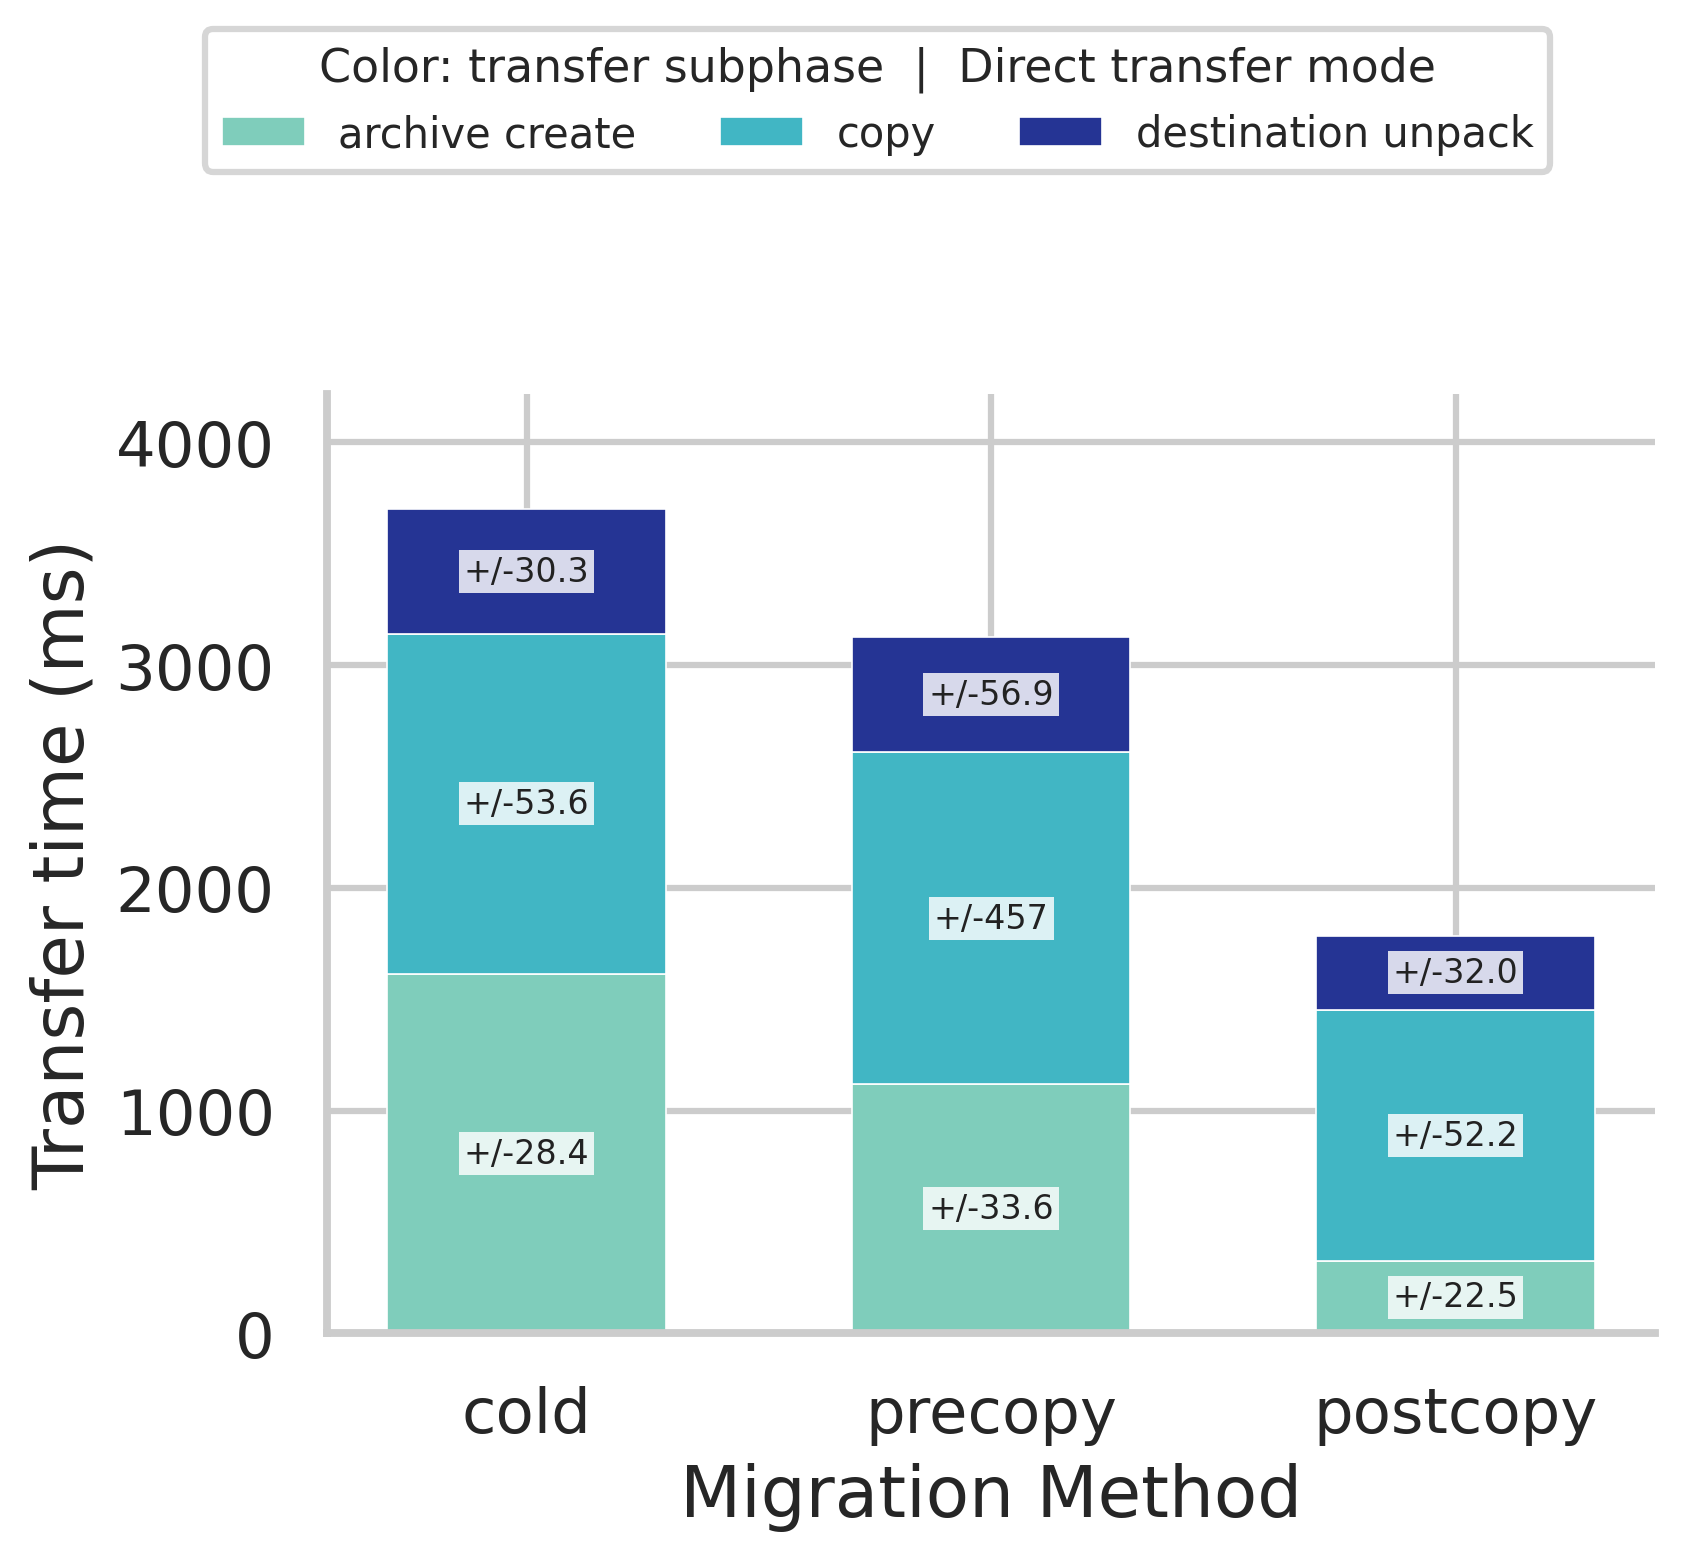
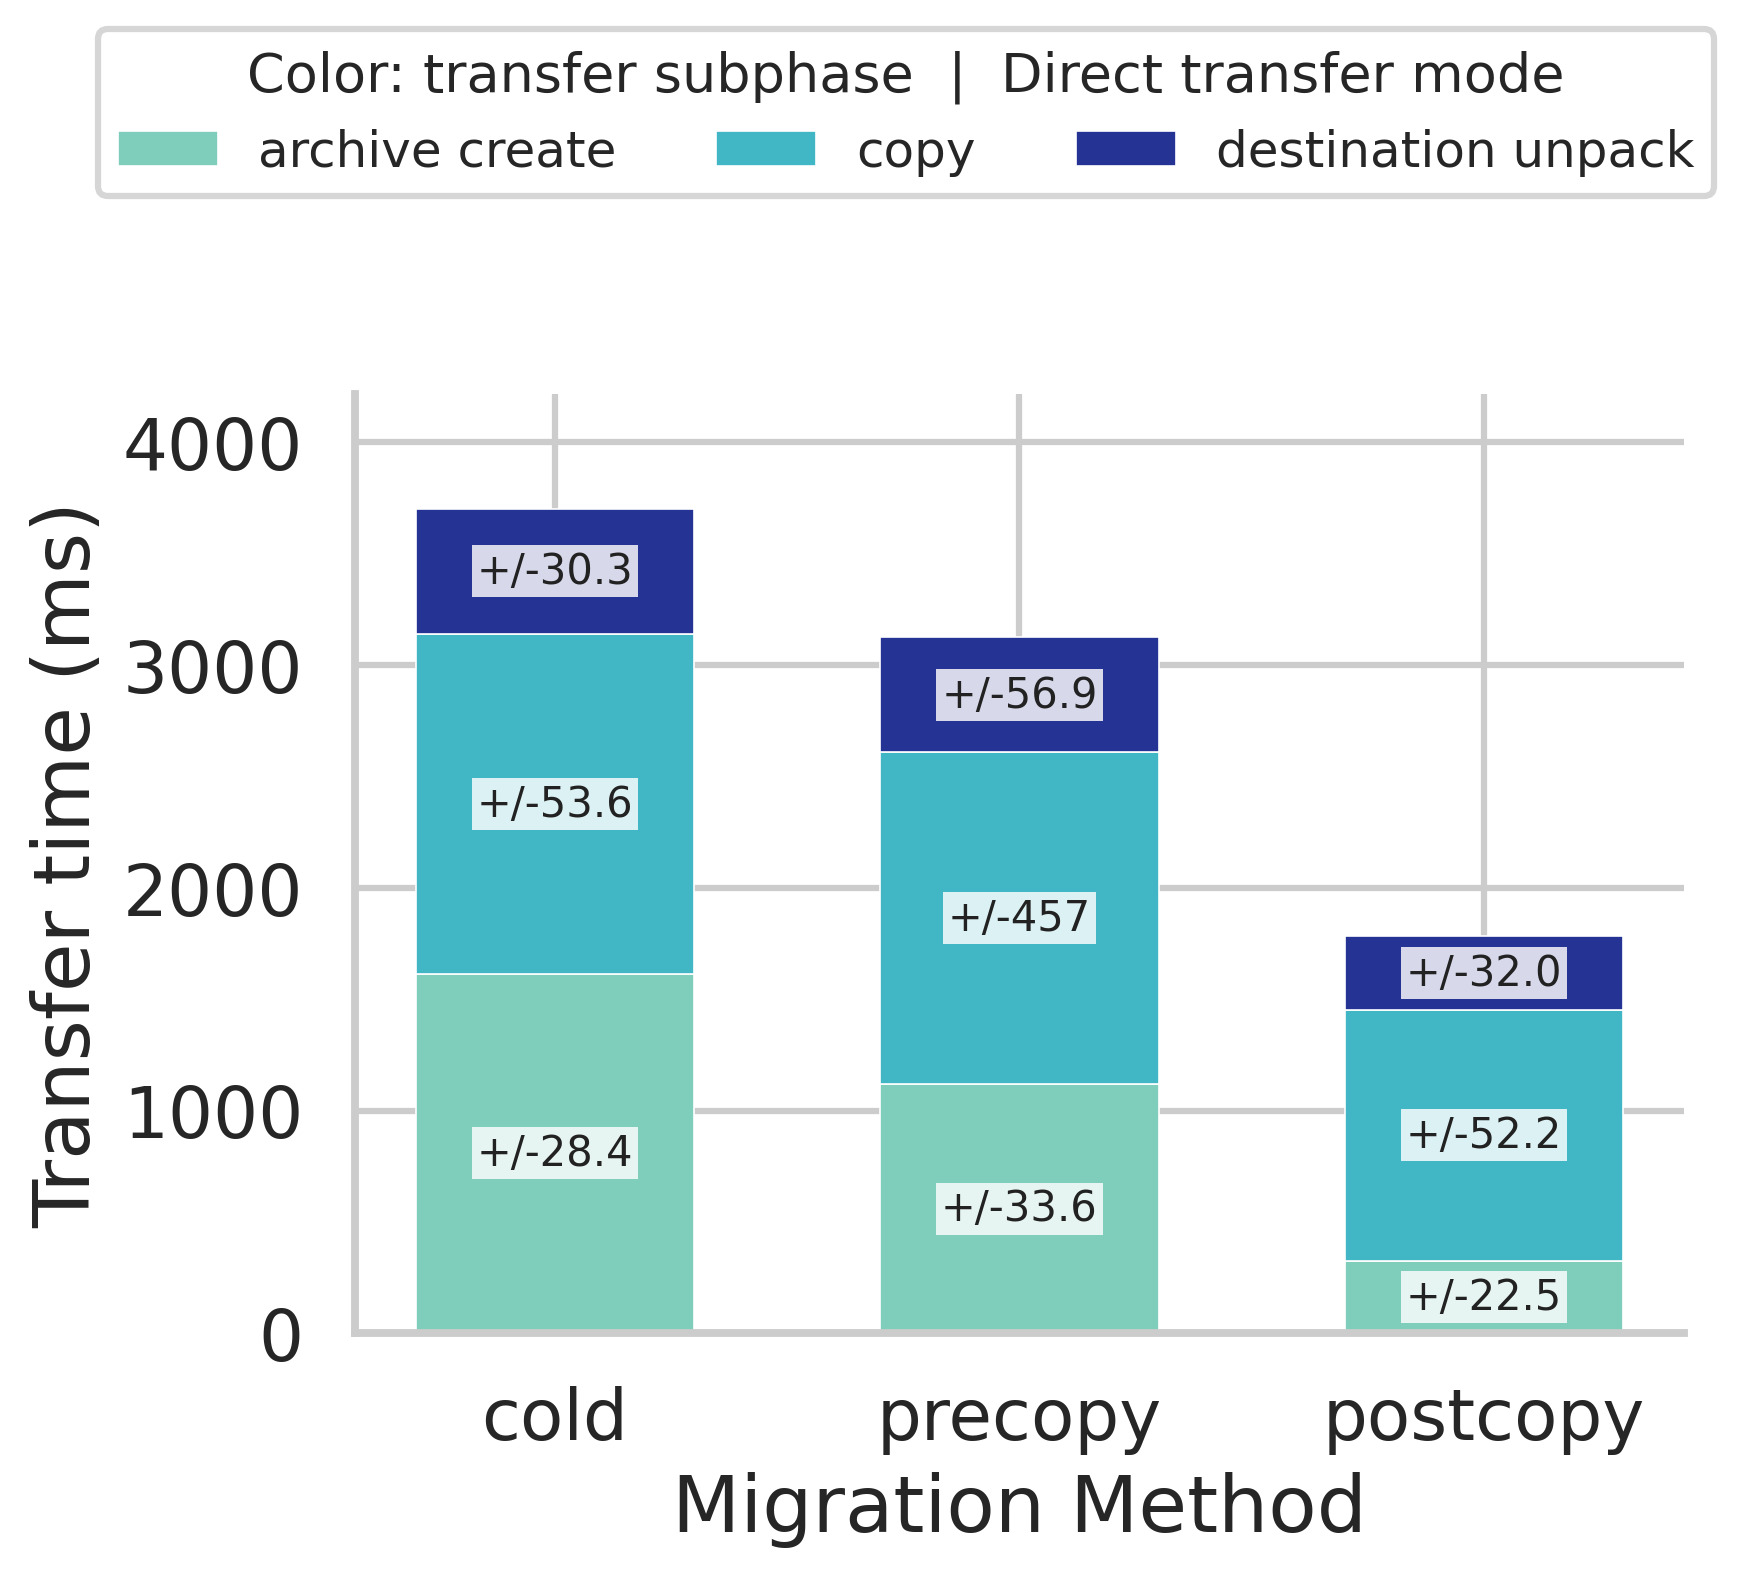
style: enlarge 5G phase plot typography

Changed region(s): [[0.0, 0.246, 0.9875, 0.984], [0.0309, 0.0, 0.9875, 0.1537]]

diff --git a/Game-of-life-migration/scripts/visualization/common.py b/Game-of-life-migration/scripts/visualization/common.py
@@ -372,6 +372,8 @@ def annotate_segment_std(
     height: float,
     std: float,
     y_upper: float,
+    *,
+    fontsize_offset: float = 0,
 ) -> None:
     if height <= 0:
         return
@@ -380,14 +382,14 @@ def annotate_segment_std(
     if height >= min_inside_height:
         y = bottom + height / 2
         va = "center"
-        fontsize = 8
+        fontsize = 8 + fontsize_offset
         pad = 1.2
     else:
         # Thin stacked segments still deserve labels, but the normal label box
         # can collide with the next segment. Keep them inside, compactly.
         y = bottom + height / 2
         va = "center"
-        fontsize = 6.5
+        fontsize = 6.5 + fontsize_offset
         pad = 0.35
 
     ax.text(
@@ -413,6 +415,8 @@ def annotate_segment_stds(
     ax: plt.Axes,
     records: list[tuple[float, float, float, float]],
     y_upper: float,
+    *,
+    fontsize_offset: float = 0,
 ) -> None:
     """Draw every finite SD without making thin segments look larger."""
     min_inside_height = y_upper * 0.045
@@ -422,7 +426,15 @@ def annotate_segment_stds(
         if not math.isfinite(std) or std <= 0:
             continue
         if height >= min_inside_height:
-            annotate_segment_std(ax, x, bottom, height, std, y_upper)
+            annotate_segment_std(
+                ax,
+                x,
+                bottom,
+                height,
+                std,
+                y_upper,
+                fontsize_offset=fontsize_offset,
+            )
         else:
             thin_by_bar.setdefault(round(x, 6), []).append((x, bottom, height, std))
 
@@ -458,7 +470,7 @@ def annotate_segment_stds(
                 xytext=(label_x, label_y),
                 ha="right" if direction < 0 else "left",
                 va="center",
-                fontsize=7.2,
+                fontsize=7.2 + fontsize_offset,
                 color="#222222",
                 bbox={
                     "facecolor": "white",

diff --git a/Game-of-life-migration/scripts/visualization/plot_transfer_phase_breakdown.py b/Game-of-life-migration/scripts/visualization/plot_transfer_phase_breakdown.py
@@ -192,12 +192,19 @@ def plot_transfer_phase_breakdown(
     if max_top > 0:
         y_upper = max_top * 1.14
         ax.set_ylim(top=y_upper)
-        annotate_segment_stds(ax, label_records, y_upper)
-    ax.set_xlabel("Migration Method")
-    ax.set_ylabel("Transfer time (ms)")
+        annotate_segment_stds(
+            ax,
+            label_records,
+            y_upper,
+            fontsize_offset=2 if square else 0,
+        )
+    font_offset = 2 if square else 0
+    ax.set_xlabel("Migration Method", fontsize=17 + font_offset)
+    ax.set_ylabel("Transfer time (ms)", fontsize=17 + font_offset)
     format_plain_axes(ax, "y")
     ax.set_xticks(x)
     ax.set_xticklabels(methods, rotation=0)
+    ax.tick_params(axis="both", labelsize=15 + font_offset)
     handles, legend_labels = ax.get_legend_handles_labels()
     legend_title = "Color: transfer subphase"
     if transfer_mode:
@@ -210,8 +217,8 @@ def plot_transfer_phase_breakdown(
         legend_labels,
         title=legend_title,
         ncol=5,
-        fontsize=10 if square else 14,
-        title_fontsize=11 if square else 15,
+        fontsize=12 if square else 14,
+        title_fontsize=13 if square else 15,
     )
     if show_run_status:
         figure_note = success_note + "\nSegment labels: +/-SD (ms)"

diff --git a/Game-of-life-migration/scripts/visualization/plot_phase_breakdown.py b/Game-of-life-migration/scripts/visualization/plot_phase_breakdown.py
@@ -171,12 +171,19 @@ def plot_phase_breakdown(
     if max_top > 0:
         y_upper = max_top * 1.14
         ax.set_ylim(top=y_upper)
-        annotate_segment_stds(ax, label_records, y_upper)
-    ax.set_xlabel("Migration Method")
-    ax.set_ylabel("Time (ms)")
+        annotate_segment_stds(
+            ax,
+            label_records,
+            y_upper,
+            fontsize_offset=2 if square else 0,
+        )
+    font_offset = 2 if square else 0
+    ax.set_xlabel("Migration Method", fontsize=17 + font_offset)
+    ax.set_ylabel("Time (ms)", fontsize=17 + font_offset)
     format_plain_axes(ax, "y")
     ax.set_xticks(x)
     ax.set_xticklabels(methods, rotation=0)
+    ax.tick_params(axis="both", labelsize=15 + font_offset)
     handles, labels = ax.get_legend_handles_labels()
     legend_title = "Color: migration phase"
     if transfer_mode:
@@ -189,8 +196,8 @@ def plot_phase_breakdown(
         labels,
         title=legend_title,
         ncol=3,
-        fontsize=10 if square else 14,
-        title_fontsize=11 if square else 15,
+        fontsize=12 if square else 14,
+        title_fontsize=13 if square else 15,
     )
     if show_run_status:
         figure_note = success_note + "\nSegment labels: +/-SD (ms)"
